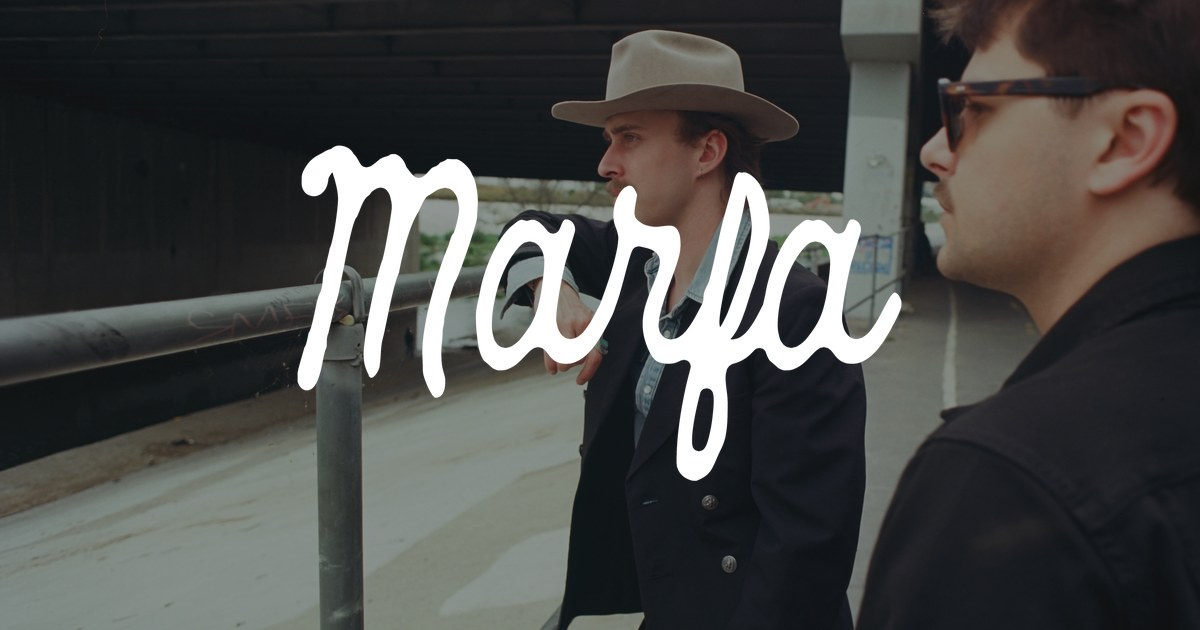
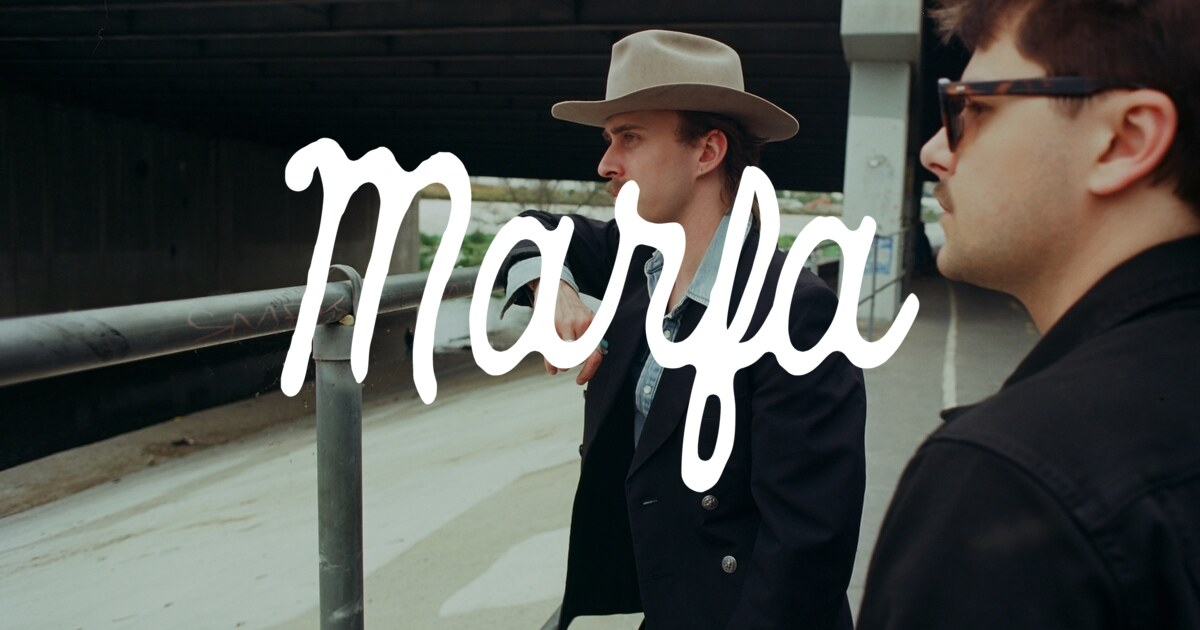
Updates

diff --git a/src/components/Footer.tsx b/src/components/Footer.tsx
@@ -1,3 +1,5 @@
+import Image from "next/image";
+
 const ICON_SIZE = 20;
 
 function InstagramIcon() {
@@ -209,12 +211,61 @@ export default function Footer() {
           ))}
         </div>
 
+        {/* Label / partner logos */}
+        <div className="flex items-center justify-center gap-6 md:gap-8 flex-wrap">
+          <a
+            href="https://www.bigmachinerecords.com/"
+            target="_blank"
+            rel="noopener noreferrer"
+            aria-label="Big Machine Records (opens in new tab)"
+            className="hover:opacity-60 transition-opacity flex items-center mr-1 md:mr-2"
+          >
+            <Image
+              src="/branding/BMR_LOGO_4C_WHITE_trim.png"
+              alt="Big Machine Records"
+              width={1327}
+              height={605}
+              className="h-6 md:h-8 w-auto"
+            />
+          </a>
+          <a
+            href="https://borchettaeg.com/"
+            target="_blank"
+            rel="noopener noreferrer"
+            aria-label="Borchetta Entertainment Group (opens in new tab)"
+            className="hover:opacity-60 transition-opacity flex items-center"
+          >
+            <Image
+              src="/branding/BEG_Logo_trim.png"
+              alt="Borchetta Entertainment Group"
+              width={682}
+              height={426}
+              className="h-8 md:h-10 w-auto"
+            />
+          </a>
+          <a
+            href="https://www.ascendmusic.com/"
+            target="_blank"
+            rel="noopener noreferrer"
+            aria-label="Ascend Music (opens in new tab)"
+            className="hover:opacity-60 transition-opacity flex items-center"
+          >
+            <Image
+              src="/branding/AscendMusic_LogoWhite_trim.png"
+              alt="Ascend Music"
+              width={206}
+              height={113}
+              className="h-6 md:h-8 w-auto"
+            />
+          </a>
+        </div>
+
         {/* Legal line */}
         <p
           className="font-[family-name:var(--font-body)] text-xs text-center leading-relaxed"
           style={{ color: "var(--color-cream)", opacity: 0.7 }}
         >
-          &copy; Borchetta Entertainment Group, LLC d/b/a Big Machine Records.
+          &copy; Borchetta Entertainment Group, LLC d/b/a Big Machine Records / &copy;2026 ASCEND Music
         </p>
 
         {/* Footer links */}
